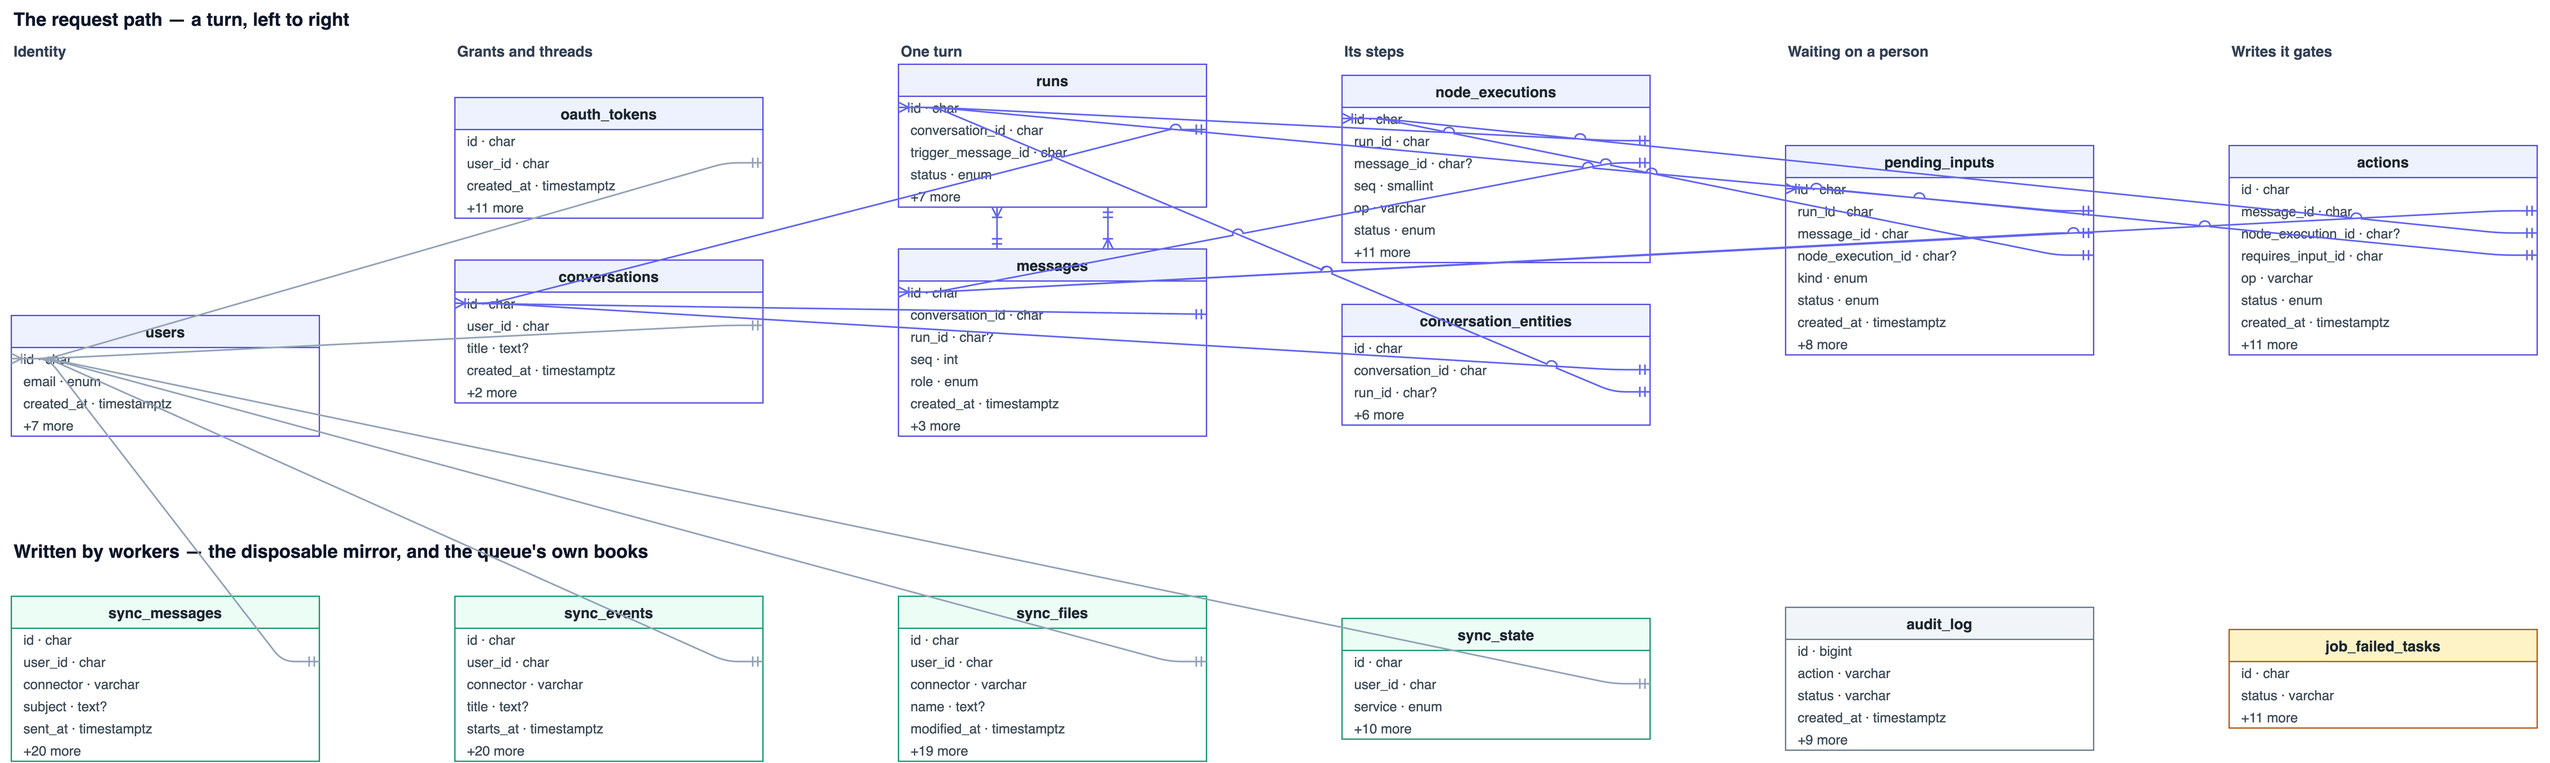
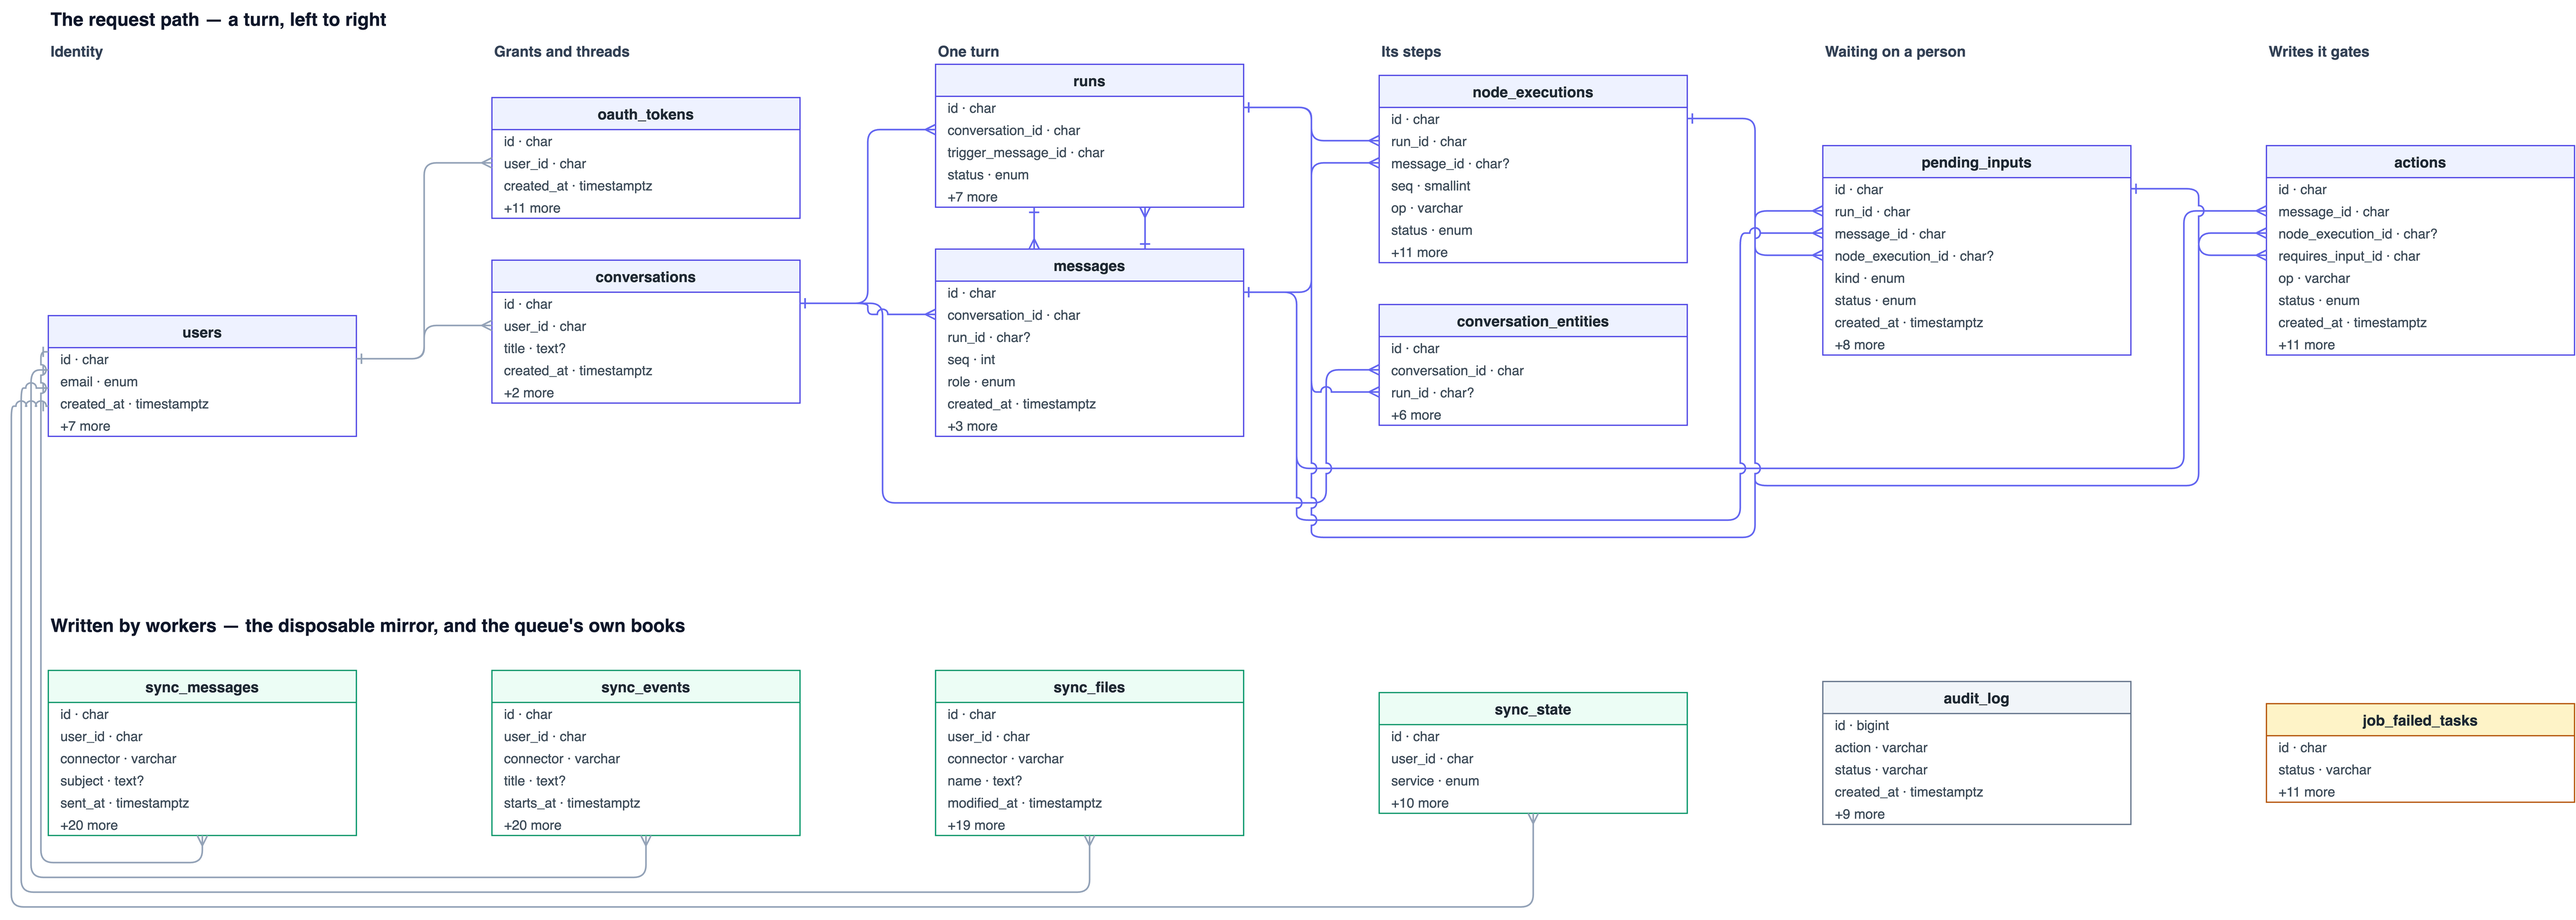
Route every ER edge through corridors the layout can prove are empty
The last pass ordered the lanes but still let the renderer route the lines,
and it routed them through the boxes. Now the generator places every edge in
space it knows is clear, from geometry captured while placing the tables:

* adjacent lanes — west out of the FK row, east into the target's id row;
  the one bend can only fall in the corridor between the two lanes
* skipping lanes — down the corridor beside the source, along the gap under
  the band, up the corridor beside the target; staggered so parallel
  channels read as separate lines
* mirror → users — south out of each box, a bus underneath the whole band,
  then up the left margin and east into `users`; the corridor above the
  mirror holds the band title, so these run the other way on purpose

Also fixes the notation, which was backwards: the crow's foot now sits at
the foreign-key side and the bar at the referenced id, matching what the
columns actually say. Cross-band edges anchor the box rather than the
`user_id` row — a row's "bottom edge" is inside the table, and the line cut
through every row beneath it before leaving.

README: the title now names what the brief asked for — Agentic Google
Workspace Orchestrator — and a stray pair of leading blank lines from a web
edit is gone. All relative links and anchors verified resolving.

diff --git a/backend/scripts/er_drawio.py b/backend/scripts/er_drawio.py
@@ -144,16 +144,16 @@ STYLE_CELL = (
 #: the bulk of the clutter, because draw.io parks them mid-span, on top of
 #: whatever box the line happens to cross.
 STYLE_EDGE = (
-    "edgeStyle=entityRelationEdgeStyle;rounded=1;html=1;endArrow=ERoneToMany;"
-    "startArrow=ERmandOne;strokeColor={colour};strokeWidth=1.3;"
+    "edgeStyle=entityRelationEdgeStyle;rounded=1;html=1;endArrow=ERone;"
+    "startArrow=ERmany;strokeColor={colour};strokeWidth=1.3;"
     "exitX=1;exitY=0.5;exitDx=0;exitDy=0;entryX=0;entryY=0.5;entryDx=0;entryDy=0;"
     "jumpStyle=arc;jumpSize=8;"
 )
 #: `runs` and `messages` sit in one lane and point at each other; a vertical
 #: hop between them beats a horizontal line that leaves and re-enters.
 STYLE_EDGE_STACKED = (
-    "edgeStyle=orthogonalEdgeStyle;rounded=1;html=1;endArrow=ERoneToMany;"
-    "startArrow=ERmandOne;strokeColor={colour};strokeWidth=1.3;"
+    "edgeStyle=orthogonalEdgeStyle;rounded=1;html=1;endArrow=ERone;"
+    "startArrow=ERmany;strokeColor={colour};strokeWidth=1.3;"
     "exitX=0.5;exitY=1;exitDx=0;exitDy=0;entryX=0.5;entryY=0;entryDx=0;entryDy=0;"
     "jumpStyle=arc;jumpSize=8;"
 )
@@ -289,6 +289,12 @@ def render(
     table_ids: dict[str, str] = {}
 
     row_ids: dict[tuple[str, str], str] = {}
+    #: Absolute geometry, captured while placing, so the edge pass can route
+    #: through corridors it can PROVE are empty instead of hoping the
+    #: renderer's router avoids the boxes.
+    table_geo: dict[str, tuple[int, int, int, int]] = {}  # x, y, w, h
+    row_y: dict[tuple[str, str], int] = {}  # absolute centre of a row
+    band_bottoms: list[int] = []
 
     def measure(name: str) -> int:
         raw = tables.get(name)
@@ -353,6 +359,7 @@ def render(
                 table_ids[name] = tid
                 fill, stroke = palette_for(name)
                 style = STYLE_TABLE.format(h=HEADER_H, fill=fill, stroke=stroke)
+                table_geo[name] = (x, y, WIDTH, height)
                 cells.append(
                     f'<mxCell id="{tid}" value="{html.escape(name)}" style="{style}" '
                     f'vertex="1" parent="1"><mxGeometry x="{x}" y="{y}" '
@@ -361,6 +368,7 @@ def render(
                 for i, (cname, ctype, is_key) in enumerate(columns):
                     rid = nid()
                     row_ids[(name, cname)] = rid
+                    row_y[(name, cname)] = y + HEADER_H + i * ROW_H + ROW_H // 2
                     cells.append(
                         f'<mxCell id="{rid}" value="" style="{STYLE_ROW}" vertex="1" '
                         f'parent="{tid}"><mxGeometry y="{HEADER_H + i * ROW_H}" '
@@ -377,7 +385,8 @@ def render(
                     )
                 y += height + GAP_Y
 
-        band_y += tallest + 130
+        band_bottoms.append(band_y + tallest)
+        band_y += tallest + 190
 
     missing = sorted(set(tables) - placed)
     if missing:  # a table nobody assigned to a column still has to appear
@@ -409,23 +418,58 @@ def render(
     order_in_lane = {
         name: j for names in COLUMNS.values() for j, name in enumerate(names)
     }
+    band_of = {
+        name: bi
+        for bi, (_, lanes) in enumerate(BANDS)
+        for names in lanes.values()
+        for name in names
+    }
+
+    # ── Routing. Every edge is placed in space the layout can PROVE is empty ─
+    #
+    # The lanes leave a 110px corridor between neighbours and each band leaves
+    # a 190px gap below itself; boxes exist nowhere else. Three cases:
+    #
+    #   adjacent lanes   exit WEST from the FK row, enter EAST at the target's
+    #                    `id` row — the single bend lands inside the corridor
+    #                    between the two lanes, which holds no boxes.
+    #   skipping lanes   channel route: down the corridor beside the source,
+    #                    along the band gap underneath everything, up the
+    #                    corridor beside the target. Long, but provably clear
+    #                    — the diagonal it replaces cut straight through every
+    #                    lane in between.
+    #   across bands     the mirror's `user_id` edges leave each box's TOP,
+    #                    meet a shared bus in the inter-band gap, and come up
+    #                    into the south edge of `users`, staggered so six
+    #                    arrowheads do not land on one point.
+    #
+    # Channels are staggered a few pixels per edge so parallel runs read as
+    # separate lines rather than one thick one.
+    skip_i = 0
+    bus_i = 0
+    tenant_bottom = sorted(
+        (
+            src for src, col, tgt in fks
+            if tgt == "users" and col == "user_id" and band_of.get(src) == 1
+        ),
+        key=lambda name: lane_of.get(name, 99),
+    )
+
     for source, column, target in sorted(fks):
-        # Prefer the exact rows; fall back to the boxes when a column was
-        # condensed away (it never is for a key, but the fallback keeps the
-        # diagram honest rather than dropping the relationship silently).
         a = row_ids.get((source, column)) or table_ids.get(source)
         b = row_ids.get((target, "id")) or table_ids.get(target)
-        if not a or not b:
+        if not a or not b or source not in table_geo or target not in table_geo:
             continue
         tenant = target == "users" and column == "user_id"
         colour = "#94A3B8" if tenant else "#6366F1"
-        stacked = lane_of.get(source) == lane_of.get(target)
-        if stacked:
-            # A same-lane pair is anchored BOX to box, not row to row. A row
-            # anchor sits inside the box, so orthogonal routing has to escape
-            # the table first and the line reads as a rectangle drawn around
-            # the pair. Box edges give a short vertical hop instead, and each
-            # direction gets its own channel so the two do not overlap.
+        sx, sy, sw, sh = table_geo[source]
+        tx, ty, tw, th = table_geo[target]
+        srow = row_y.get((source, column), sy + sh // 2)
+        trow = row_y.get((target, "id"), ty + th // 2)
+        points: list[tuple[int, int]] = []
+
+        if lane_of.get(source) == lane_of.get(target) and band_of.get(source) == band_of.get(target):
+            # Stacked pair: a short vertical hop, one channel per direction.
             a, b = table_ids[source], table_ids[target]
             above = order_in_lane.get(target, 0) < order_in_lane.get(source, 0)
             side = 0.32 if above else 0.68
@@ -436,11 +480,71 @@ def render(
                 .replace("exitY=1", "exitY=0" if above else "exitY=1")
                 .replace("entryY=0", "entryY=1" if above else "entryY=0")
             )
+        elif band_of.get(source) != band_of.get(target):
+            # Mirror → users. The corridor ABOVE the mirror holds the band
+            # title, so these run the other way: south out of each box, along
+            # a bus underneath the whole band, then up the left margin — the
+            # one column of the page that is guaranteed to hold nothing — and
+            # east into the side of `users`. Ordered by lane so the four
+            # trunks nest instead of weaving.
+            # Anchor the BOX, not the `user_id` row: exitY=1 on a row is the
+            # row's own bottom, which is inside the table — the line then cuts
+            # down through every row beneath it before it ever leaves the box.
+            a, b = table_ids[source], table_ids[target]
+            order = tenant_bottom.index(source) if source in tenant_bottom else bus_i
+            below_y = band_bottoms[-1] + 22 + order * 12
+            trunk_x = 34 - order * 8
+            entry_frac = 0.30 + 0.15 * order
+            entry_abs = ty + int(th * entry_frac)
+            style = (
+                "edgeStyle=orthogonalEdgeStyle;rounded=1;html=1;endArrow=ERone;"
+                f"startArrow=ERmany;strokeColor={colour};strokeWidth=1.3;"
+                "exitX=0.5;exitY=1;exitDx=0;exitDy=0;"
+                f"entryX=0;entryY={entry_frac:.2f};entryDx=0;entryDy=0;"
+                "jumpStyle=arc;jumpSize=8;"
+            )
+            points = [
+                (sx + sw // 2, below_y),
+                (trunk_x, below_y),
+                (trunk_x, entry_abs),
+            ]
+            bus_i += 1
+        elif abs(lane_of[source] - lane_of[target]) == 1:
+            # Adjacent lanes: west out of the row, east into the id row. The
+            # bend can only fall in the corridor between the two lanes.
+            style = (
+                "edgeStyle=orthogonalEdgeStyle;rounded=1;html=1;endArrow=ERone;"
+                f"startArrow=ERmany;strokeColor={colour};strokeWidth=1.3;"
+                "exitX=0;exitY=0.5;exitDx=0;exitDy=0;entryX=1;entryY=0.5;entryDx=0;entryDy=0;"
+                "jumpStyle=arc;jumpSize=8;"
+            )
         else:
-            style = STYLE_EDGE.format(colour=colour)
+            # Skip route through provably empty corridors.
+            down_x = sx - 55 + (skip_i % 3) * 12 - 12
+            up_x = tx + tw + 43 + (skip_i % 3) * 12
+            gap_y = band_bottoms[0] + 26 + skip_i * 14
+            style = (
+                "edgeStyle=orthogonalEdgeStyle;rounded=1;html=1;endArrow=ERone;"
+                f"startArrow=ERmany;strokeColor={colour};strokeWidth=1.3;"
+                "exitX=0;exitY=0.5;exitDx=0;exitDy=0;entryX=1;entryY=0.5;entryDx=0;entryDy=0;"
+                "jumpStyle=arc;jumpSize=8;"
+            )
+            points = [(down_x, srow), (down_x, gap_y), (up_x, gap_y), (up_x, trow)]
+            skip_i += 1
+
+        if points:
+            waypoints = "".join(
+                f'<mxPoint x="{px}" y="{py}"/>' for px, py in points
+            )
+            geometry = (
+                f'<mxGeometry relative="1" as="geometry">'
+                f'<Array as="points">{waypoints}</Array></mxGeometry>'
+            )
+        else:
+            geometry = '<mxGeometry relative="1" as="geometry"/>'
         cells.append(
             f'<mxCell id="{nid()}" value="" style="{style}" edge="1" parent="1" '
-            f'source="{a}" target="{b}"><mxGeometry relative="1" as="geometry"/></mxCell>'
+            f'source="{a}" target="{b}">{geometry}</mxCell>'
         )
 
     body = "\n        ".join(cells)

diff --git a/README.md b/README.md
@@ -1,6 +1,4 @@
-
-
-# Ryuk — a chat orchestrator over Gmail, Calendar and Drive
+# Ryuk — Agentic Google Workspace Orchestrator
 
 You type "cancel my Turkish Airlines flight". It finds the booking email, reads
 the PNR out of it, finds the matching calendar event, drafts the cancellation
@@ -12,9 +10,7 @@ The point of the design is that it does all of that on **one model call**.
 
 ## Demo
 
-
 https://github.com/user-attachments/assets/b729b51e-c45b-4ed1-a6e6-54c2657e37a1
-
 
 **▶ [Watch the demo](docs/demo/demo.mp4)**
 
